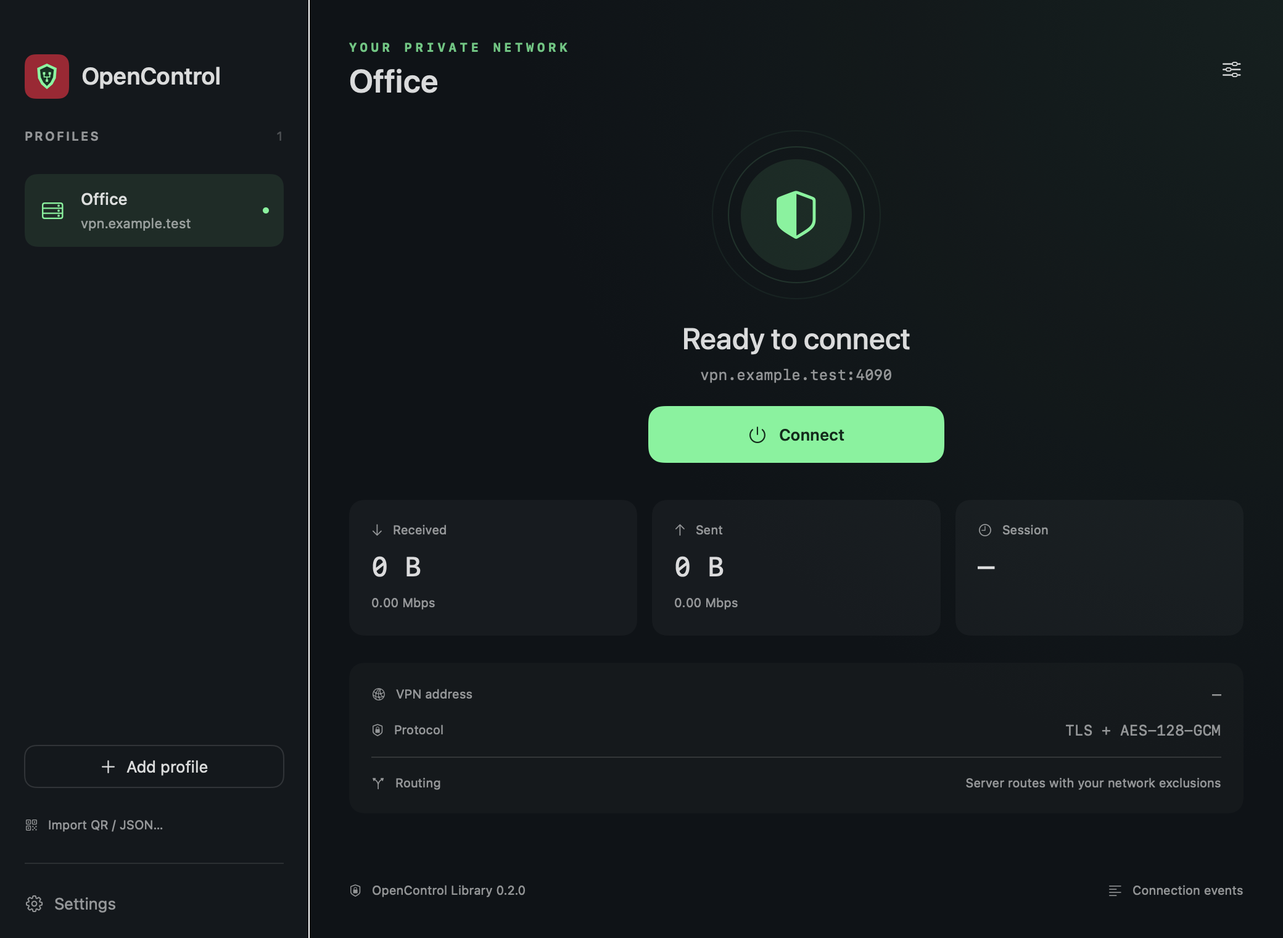
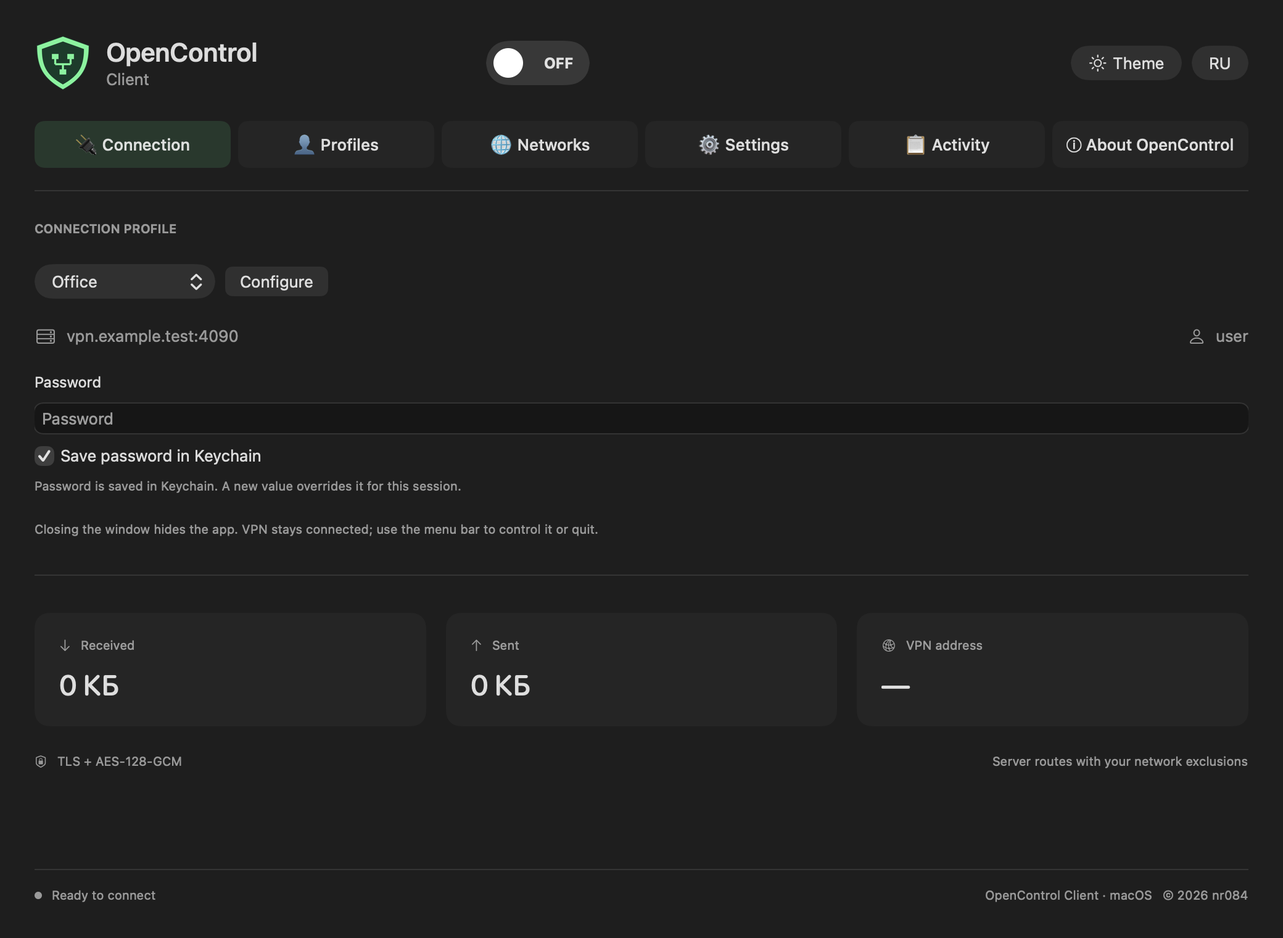
Prepare macOS 0.2.0 laboratory release with Windows UI parity

diff --git a/README.md b/README.md
@@ -1,67 +1,53 @@
-> Experimental laboratory prerelease: [v0.1.0-lab.1](https://github.com/nr084/opencontrol-client-macos-releases/releases/tag/v0.1.0-lab.1). VPN activation is enabled but unverified; SIP-disabled testing only. [RU/EN instructions](LAB_TESTING.md). No production release yet.
-
 <p align="center"><img src="assets/icon.png" width="96" alt="OpenControl Client"></p>
-<h1 align="center">OpenControl Client для macOS</h1>
-<p align="center">Нативный клиент для вашей частной сети.<br>Universal 2 · Apple Silicon + Intel · Русский / English</p>
+<h1 align="center">OpenControl Client · macOS</h1>
+<p align="center">Universal 2 · Apple Silicon + Intel · macOS 13+ · Русский / English</p>
 
-**Русский** | [English](README.en.md)
+**Русский** · [English](README.en.md)
 
-Разрабатываемый macOS-клиент на SwiftUI и OpenControl Library для частных сетей
-Kerio Control. Профили и значок перенесены из Android-клиента; предусмотрены
-управление из строки меню и установка через PKG.
+Интерфейс и возможности Windows-клиента адаптированы для Mac: шесть вкладок,
+переключатель VPN, прозрачный значок и две темы с нативными элементами macOS.
 
-> **Доступен лабораторный prerelease 0.1.0-lab.1.** Проверены сборка и упаковка. Активация расширения и корпоративное подключение ещё не проверены. Для обычного релиза с включённым SIP нужны подпись и профили Apple.
+**[Скачать 0.2.0-lab.1](https://github.com/nr084/opencontrol-client-macos-releases/releases/tag/v0.2.0-lab.1)**
+— экспериментальная сборка для лабораторного теста с отключённым SIP.
+**Активация расширения и реальное VPN-подключение пока не проверены.**
+Установщик содержит один OpenControl Client.app для обеих архитектур.
+В выпуске: PKG, удаление, SHA256 и [инструкция RU/EN](LAB_TESTING.md).
 
-## Будущий выпуск
+![Подключение](assets/interface-ru.png)
 
-[Страница выпусков](https://github.com/nr084/opencontrol-client-macos-releases/releases)
+## Возможности
 
-Планируется один PKG для **macOS 13+**, устанавливающий **OpenControl Client.app**
-с поддержкой Apple Silicon и Intel. С выпуском будут предоставлены сценарий
-удаления, SHA256 и инструкция. Лабораторный PKG, удаление и SHA256 доступны в prerelease.
+- Профили с сортировкой, выбором по умолчанию и паролями в Keychain.
+- Проверка сертификата, SHA-256 и согласие на конкретный просроченный сертификат.
+- Kerio CFG: импорт с выбором обработки дублей, экспорт user.cfg.
+- Добровольная синхронизация локального CFG раз в час и вручную, включая удаления;
+  при конфликте изменения приостанавливаются.
+- Совместимый QR профиля: показать, сохранить PNG, импортировать изображение/JSON.
+- Общие исключения IPv4 CIDR, маршруты и DNS через Network Extension.
+- Меню в строке macOS: подключение, переподключение и смена профиля после остановки старой сессии.
+- Закрытие окна скрывает приложение; выход дожидается остановки VPN.
+- История последних 500 событий текущего запуска, счётчики за сеанс и уведомления.
+- Добровольный автозапуск при входе без подключения VPN.
+- Ежедневная проверка стабильных обновлений и загрузка Universal PKG с проверкой SHA256.
+  Установка после отключения VPN через стандартный Installer с системным подтверждением.
 
-![Интерфейс на русском](assets/interface-ru.png)
+![Светлая тема](assets/interface-ru-light.png)
+![Настройки](assets/settings-ru.png)
 
-*Отрисовка настоящего SwiftUI-интерфейса с демонстрационным профилем.
-`vpn.example.test` — иллюстративный адрес, не сервер проекта.*
+Отрисовки настоящего SwiftUI-интерфейса используют только демонстрационный профиль.
+`vpn.example.test` — иллюстративный адрес, не сервер проекта.
 
-## Реализовано в исходниках
+## Проверки и ограничения
 
-- Несколько профилей, хранение паролей в Связке ключей macOS.
-- Просмотр сертификата, подтверждение SHA-256 либо доверенный CA в PEM.
-- Отдельное подтверждение для конкретного просроченного сертификата.
-- Импорт QR из изображения или JSON; показ QR для переноса в Android.
-- Исключения IPv4-сетей в CIDR, до 128 записей.
-- Автопереподключение, ROUTES, TLS и AES-128-GCM в Rust-ядре.
-- Статистика, скорости, время сеанса, адрес VPN и управление из строки меню.
-- Полные русский и английский интерфейсы, системный язык или ручной выбор.
+[Результаты проверок](VALIDATION.md) · [История выпусков](CHANGELOG.md) ·
+[Конфиденциальность](PRIVACY.md) · [Сообщить о проблеме](https://github.com/nr084/opencontrol-client-macos-releases/issues).
 
-Android-выбор отдельных приложений не переносится на macOS: здесь маршруты
-действуют для всех приложений. IPv6 не туннелируется и блокируется во время
-VPN-сеанса. Приложение не является always-on kill switch.
+Сборка, подписи, обе архитектуры, синтетические тесты ядра и CFG проверены.
+Установленные системные функции, корпоративный firewall и физический Intel Mac
+требуют отдельных испытаний. Это не готовый производственный VPN-релиз.
+Пароли включаются в экспорт CFG/QR; не публикуйте эти файлы и корпоративные журналы.
 
-## Статус и документация
-
-[Проверки и ограничения](VALIDATION.md) · [История разработки](CHANGELOG.md) ·
-[Установка и удаление будущего выпуска](docs/INSTALL.ru.md) ·
-[Конфиденциальность](PRIVACY.md)
-
-Синтетический 32-секундный тест подтвердил работу ядра: TLS/UDP, смену ключей и
-обмен при обновлении маршрутов. Он не заменяет испытания подписанного System
-Extension, маршрутов macOS, корпоративного сервера и физического Intel Mac.
-
-## Обратная связь
-
-[Сообщить о проблеме](https://github.com/nr084/opencontrol-client-macos-releases/issues).
-Не прикладывайте credentials, ключи и корпоративные сетевые журналы.
-Доступ предоставляет администратор вашей сети; проект не выдаёт VPN-аккаунты
-и не предоставляет открытых серверов.
-
-**Независимый проект: не продукт Kerio/GFI, не связан с ними и не поддерживается ими.**
-Товарные знаки упоминаются только для указания назначения и совместимости.
-
-Здесь размещаются пользовательские документы и будущие выпуски. Исходники
-приложения приватные. [OpenControl Protocol](https://github.com/nr084/opencontrol-protocol)
-остаётся отдельным публичным проектом.
-
-© nr084
+Доступ предоставляет администратор вашей сети. Проект не выдаёт аккаунты и не
+предоставляет публичные VPN-серверы. Независимый проект, не связан с Kerio/GFI.
+Исходники приложения приватные; [protocol library](https://github.com/nr084/opencontrol-protocol)
+остаётся отдельным публичным проектом. © 2026 nr084.

diff --git a/README.en.md b/README.en.md
@@ -1,53 +1,50 @@
-> Experimental laboratory prerelease: [v0.1.0-lab.1](https://github.com/nr084/opencontrol-client-macos-releases/releases/tag/v0.1.0-lab.1). VPN activation is enabled but unverified; SIP-disabled testing only. [RU/EN instructions](LAB_TESTING.md). No production release yet.
-
 <p align="center"><img src="assets/icon.png" width="96" alt="OpenControl Client"></p>
-<h1 align="center">OpenControl Client for macOS</h1>
-<p align="center">A native client for your private network.<br>Universal 2 · Apple Silicon + Intel · English / Русский</p>
+<h1 align="center">OpenControl Client · macOS</h1>
+<p align="center">Universal 2 · Apple Silicon + Intel · macOS 13+ · English / Русский</p>
 
-[Русский](README.md) | **English**
+[Русский](README.md) · **English**
 
-A macOS client in development, based on SwiftUI and OpenControl Library, for private
-Kerio Control networks. It carries over the Android icon and profile logic and
-provides a menu bar control and a planned PKG installer.
+Windows client features adapted for Mac: six tabs, VPN switch, transparent shield,
+dark/light themes and native macOS controls.
 
-> **Experimental 0.1.0-lab.1 is available.** Build and packaging checks pass. Extension activation and live traffic are unverified. A normal SIP-enabled release still requires Apple signing and provisioning.
+**[Download 0.2.0-lab.1](https://github.com/nr084/opencontrol-client-macos-releases/releases/tag/v0.2.0-lab.1)**
+— experimental laboratory build requiring SIP-disabled testing.
+**Extension activation and live VPN traffic are not yet verified.**
+One OpenControl Client.app supports both architectures. The release includes PKG,
+uninstaller, SHA256 and [RU/EN lab instructions](LAB_TESTING.md).
 
-## Planned distribution
+![Connection](assets/interface-en.png)
 
-[Releases](https://github.com/nr084/opencontrol-client-macos-releases/releases)
+## Features
 
-One PKG for **macOS 13+**, installing **OpenControl Client.app** for Apple Silicon
-and Intel, with an uninstaller, SHA256 and installation guide. Experimental installation files are available in the prerelease.
+- Sorted profiles, default selection and Keychain passwords.
+- Certificate inspection, SHA-256 trust and exact-certificate expiry consent.
+- Kerio CFG import with duplicate policy, user.cfg export and opt-in hourly/manual
+  local sync including deletions; conflicting edits pause synchronization.
+- Compatible QR display, PNG export and image/JSON import.
+- Shared IPv4 exclusions, routes and DNS through Network Extension.
+- Menu bar connect, reconnect and profile switch after previous-session cleanup.
+- Close hides the window; explicit quit waits for VPN shutdown.
+- Last 500 session events, session traffic totals and notifications.
+- Opt-in login startup without automatically connecting VPN.
+- Daily stable update checks, Universal PKG download and SHA256 verification.
+  Installation is handed to standard macOS Installer while VPN is stopped.
 
-![English interface](assets/interface-en.png)
+![Light theme](assets/interface-en-light.png)
+![Settings](assets/settings-en.png)
 
-*Rendered from the actual SwiftUI interface using a demonstration profile.
-`vpn.example.test` is illustrative, not a project-provided server.*
+Actual SwiftUI renders with synthetic data only. `vpn.example.test` is illustrative,
+not a project-provided server.
 
-## Implemented in source
+[Validation](VALIDATION.md) · [Changelog](CHANGELOG.md) · [Privacy](PRIVACY.md) ·
+[Issues](https://github.com/nr084/opencontrol-client-macos-releases/issues).
 
-Profiles, Keychain password storage, certificate inspection and explicit trust,
-per-certificate expiry consent, Android-compatible QR/JSON import and QR display,
-IPv4 CIDR exclusions, reconnection, traffic/rate/session statistics, VPN address,
-menu bar control and complete Russian/English UI.
+Build, signatures, architectures, synthetic protocol and CFG checks pass. Installed
+system behavior, real corporate firewall interoperability and physical Intel hardware
+still require testing. This is not a production-ready VPN release.
+CFG/QR exports contain credentials; never publish them or corporate network logs.
 
-Android per-application selection is not supported; routes apply to all apps.
-IPv6 is captured and blocked during a VPN session. This is not an always-on kill switch.
-
-[Validation and limitations](VALIDATION.md) · [Changelog](CHANGELOG.md) ·
-[Future installation / removal](docs/INSTALL.en.md) · [Privacy](PRIVACY.md) ·
-[Issues](https://github.com/nr084/opencontrol-client-macos-releases/issues)
-
-A short synthetic loopback test covers TLS/UDP, key rotation and route-update
-continuity. Signed System Extension activation, OS route installation, a real
-corporate server and physical Intel acceptance still need testing.
-
-Access comes from your administrator. No public servers or accounts are supplied.
-Do not post credentials, keys or corporate network logs in issues.
-
-**Independent project, not affiliated with or supported by Kerio/GFI.** Names are
-used only to describe intended compatibility. This repository contains user docs
-and will host releases; application sources are private. The
-[protocol library](https://github.com/nr084/opencontrol-protocol) is a separate public project.
-
-© nr084
+Access comes from your administrator. No public servers or accounts are provided.
+Independent project, not affiliated with Kerio/GFI. App sources are private;
+[protocol library](https://github.com/nr084/opencontrol-protocol) remains a separate
+public project. © 2026 nr084.

diff --git a/VALIDATION.md b/VALIDATION.md
@@ -1,39 +1,24 @@
-# Validation — 2026-10-15
+# Validation — macOS 0.2.0, 2026-10-16
 
-Experimental public prerelease **0.1.0-lab.1** is available with VPN activation enabled. Ad-hoc signed for SIP-disabled laboratory testing; Developer ID/provisioning remain unavailable. Live testing is deferred by the owner.
+Experimental laboratory prerelease. Live testing was deferred by the owner.
 
-| Check | Result |
+| Check | Evidence |
 | --- | --- |
-| Xcode 27.0 / Swift 6.4 Release build | PASS: host + System Extension + shared framework |
-| App CPU architectures | PASS: arm64 and x86_64 in one app |
-| System Extension / both framework architectures | PASS: arm64 and x86_64 |
-| Rust | 1.99.0, release builds for both Darwin targets |
-| Protocol dependency | 0.2.0, pinned Git commit 35a5c848fb2a25a64da36268026906ce3757b974 |
-| Rust unit tests | PASS: 10 |
-| ROUTES migration tests | PASS: 4, including failed-apply rollback and pending rekey/replay preservation |
-| Rustfmt / Clippy all targets, warnings denied | PASS |
-| Swift tests | PASS: 5, including CIDR exclusions, QR compatibility, password-free serialization and retry policy |
-| Localization parity | PASS: 118 matching RU/EN keys |
-| Synthetic 32-second loopback ABI/TLS/UDP test | PASS: 301 authenticated echoes, 7 changed route callbacks, continuing rekeys |
-| PKG packaging pipeline (earlier local validation artifact) | PASS: 5.2 MB; extracted app signature integrity and Universal architecture checked |
-| PKG distribution | Experimental lab prerelease published; Universal 2, signatures and entitlements checked |
-| UI | RU/EN rendered from real SwiftUI with synthetic profile, visually inspected |
-| Developer ID / provisioning / notarization | NOT AVAILABLE |
-| Signed System Extension activation and real OS routing | NOT TESTED |
-| Real corporate firewall / physical Intel Mac | NOT TESTED |
-| Real machine installation, upgrade, deactivation and uninstall | NOT TESTED |
+| Swift tests | 11 passing: CIDR, QR, secret-free profile encoding, legacy settings, Windows D3S vectors, CFG roundtrip, XML rejection, duplicate policy, three-way merge/deletions/conflicts and recovery policy |
+| Rust tests | 10 unit + 4 ROUTES migration tests passing |
+| Rust fmt / Clippy | Passing, all targets with warnings denied |
+| Local synthetic TLS/UDP/ROUTES/rekey test | Passing: 306 authenticated echoes and 7 changed route callbacks in 32 seconds |
+| App / extension / both framework binaries | Universal 2: arm64 + x86_64 |
+| PKG | Extracted payload architecture, local signatures, icon, notices and uninstaller checks |
+| Localization | 162 matching RU/EN keys |
+| Visual review | Offscreen actual SwiftUI renders, synthetic profile only; RU/EN, dark/light and all tabs |
+| Apple Developer signing / provisioning / notarization | Not available; app and extension use local ad-hoc signatures |
+| Extension activation / corporate firewall / OS routing | Not tested |
+| Physical Intel Mac | Not tested |
+| Installed menu behavior, login startup, notification approval, Keychain permissions | Runtime acceptance pending |
+| Installer install/upgrade/remove and update handoff | Runtime acceptance pending |
+| External Kerio writer concurrency | Three-way merge tested synthetically; runtime coexistence pending |
 
-The loopback fixture owns an ephemeral certificate and local port, uses public
-synthetic credentials, and deletes its key/cert/process after completion. Its
-platform callbacks validate complete route configurations but do not install OS
-routes. It is not a public VPN endpoint or evidence of corporate acceptance.
-
-Current network recovery also restarts on underlying-path changes and wake; this
-code compiles but needs signed System Extension sleep/wake/path acceptance testing.
-
-The initial metadata uses the Android engine's known OS code 2 with a macOS label.
-No unverified mapping to a different wire OS identifier has been invented.
-
-No claim of Apple approval, real-world VPN readiness, notarization, or complete
-Android feature parity is made. Source and build verification are separate from
-those external/runtime checks.
+The downloaded lab build is not a production-ready VPN release. Synthetic tests do
+not establish real-server compatibility or Apple approval. Protection settings were
+not changed. No personal profile store, CFG or clipboard was inspected during this task.

diff --git a/PRIVACY.md b/PRIVACY.md
@@ -43,3 +43,20 @@ Profile QR codes include passwords and are shown only on request with a warning;
 image import is local. Settings can erase profiles and Keychain entries. Ordinary
 app removal retains them unless explicit cleanup is selected. GitHub issues are
 public: never post sensitive information. GitHub links are subject to GitHub's own policy.
+
+
+## 0.2.0 data handling / Обработка данных
+
+Profiles and linked-file bookmarks are local; saved passwords use Keychain. CFG
+exports contain saved credentials in Kerio legacy format; QR contains the password.
+Certificate trust is not imported. Sync touches only the explicitly linked local
+file. History is limited to 500 in-memory events per launch. Daily update checks
+contact the fixed public GitHub repository and disclose ordinary HTTPS metadata
+(e.g. source IP) to GitHub; no VPN credentials or profiles are sent. There are no
+analytics or advertisements.
+
+Профили и связь с выбранным CFG хранятся локально, пароли — в Keychain. Экспорт
+CFG/QR содержит учётные данные. Синхронизация работает только с явно выбранным
+локальным файлом. Журнал — до 500 событий в памяти. Проверка обновлений обращается
+к GitHub, который видит обычные метаданные HTTPS; VPN-пароли и профили не передаются.
+Аналитики и рекламы нет.

diff --git a/CHANGELOG.md b/CHANGELOG.md
@@ -1,5 +1,17 @@
 # История / Changelog
 
+## 0.2.0-lab.1 — 2026-10-16
+
+Перенос интерфейса, значка и реализованной логики Windows 1.0.1 с адаптацией под
+SwiftUI, Keychain, строку меню и Network Extension. CFG/QR, синхронизация,
+темы, профиль по умолчанию, смена профиля, история, восстановление и обновления.
+Universal PKG с локальными подписями. Живой тест VPN отложен.
+
+Windows 1.0.1 interface/icon/behavior adapted for macOS. CFG/QR transfer, three-way
+sync, themes, profiles, menu bar, history, recovery and update checks. Universal PKG
+with ad-hoc signatures. Live VPN/system-extension testing remains deferred.
+
+
 ## 0.1.0-lab.1 — 2026-10-15
 
 Экспериментальный Universal 2 PKG: RU/EN, локальная подпись приложения и VPN-расширения с entitlements. Требуется лабораторная macOS с отключённым SIP. Активация и реальное подключение пока не проверены.

diff --git a/LAB_TESTING.md b/LAB_TESTING.md
@@ -1,6 +1,6 @@
 # Experimental VPN test / Экспериментальный тест VPN
 
-0.1.0-lab.1 · Universal 2 · macOS 13+. Ad-hoc signed, not notarized.
+0.2.0-lab.1 · Universal 2 · macOS 13+. Ad-hoc signed, not notarized.
 **Активация расширения и реальный VPN пока не проверены.**
 **Extension activation and live VPN traffic have not yet been verified.**
 
